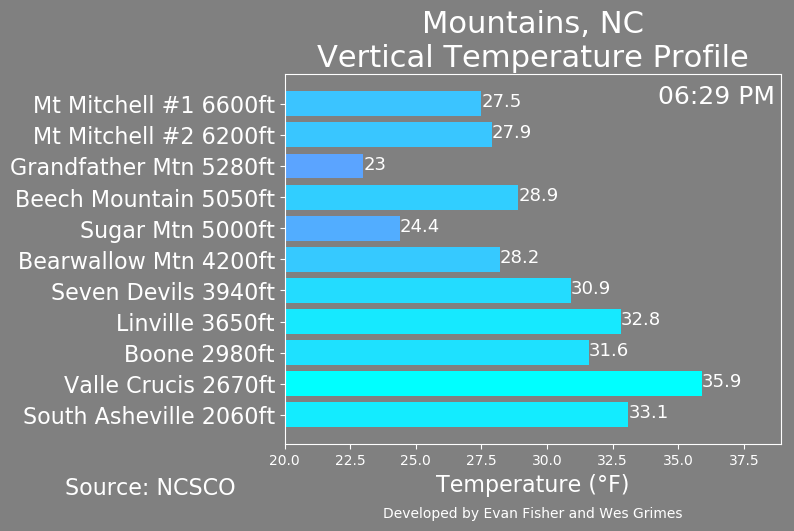
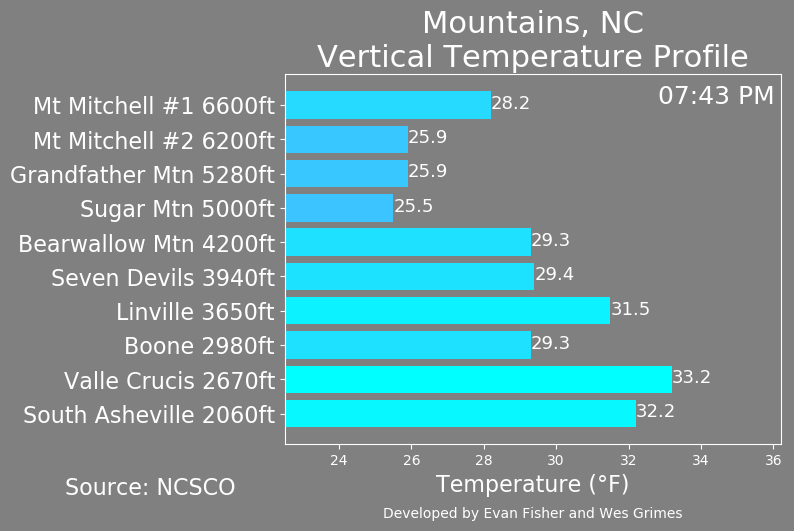
New plots, html overhaul

diff --git a/output/about.html b/output/about.html
@@ -22,6 +22,14 @@ body {margin:0}
 	font-size:250%;
 	margin-top:0%;
 }
+#p2 {
+	text-align:center;
+	font-family:Candara;
+	color:white;
+	font-size:150%;
+	padding-left:5%;
+	padding-right:5%;
+}
 #p1 {
 	text-align:center;
 	font-family:Candara;
@@ -34,6 +42,12 @@ body {margin:0}
 	text-align: center;
 	margin: 0 auto;
 	background-color:rgba(255,255,255,0.7);
+}
+#divcenter2 {
+	width:67%;
+	text-align: center;
+	margin: 0 auto;
+	background-color:rgba(101,101,101,0.6);
 }
 #header_image {
 	background-image: url('header_image.jpg');
@@ -89,24 +103,23 @@ li a:hover:not(.active) {
 </script>
 </head>
 <body style="background-color:grey;height:100%">
-	<div style="background-image:url(headerimage.jpg);background-repeat: no-repeat;background-size: cover;height:350%;margin-bottom: 0px;margin-top:0px;">
+	<div style="background-image:url(headerimage.jpg);background-repeat: no-repeat;background-size: cover;height:250%;margin-bottom: 0px;margin-top:0px;">
 	<p id="header">Appalachian Weather</p>
 	<ul>
-  		<li><a class="active" href="index.html">Temperature</a></li>
+  		<li><a href="index.html">Temperature</a></li>
   		<li><a href="wind.html">Wind</a></li>
-  		<li><a href="about.html">About</a></li>
+  		<li><a class="active" href="about.html">About</a></li>
 	</ul>
-	<p id="header3">Temperature Plots</p>
-	<div>
-		<img src="wncbarplot.png"/>
-	</div>
-	<br /><br /><br />
-	<div>
-		<img src="piedmontbarplot.png"/>
-	</div>
-	<br /><br /><br />
-	<div>
-		<img src="vabarplot.png"/>
+	<p id="header3">About Appalachian Weather</p>
+	<div id="divcenter2">
+		<br />
+		<p id="p2">If you encounter product issues, or have ideas for new plots, we want to hear about it!</p>
+		<p id="p2">Products on <a style="color:white" href="https://www.appalachianwx.com/">AppalachianWx.com</a> are unique to the southern and central Appalachians. More products will be added with time, but if you have a special request please contact us using the information below.</p>
+		<br />
+		<p id="p2">Twitter (preferred): <a style="color:white" href="https://twitter.com/EFisherWX">@EFisher828</a> & <a style="color:white" href="https://twitter.com/wesgrimes">@wesgrimes</a></p>
+		<br />
+		<p id="p2">Email: evan.w.fisher@gmail.com</p>
+		<br />
 	</div>
 	</div>
 </body>

diff --git a/output/wind.html b/output/wind.html
@@ -89,24 +89,16 @@ li a:hover:not(.active) {
 </script>
 </head>
 <body style="background-color:grey;height:100%">
-	<div style="background-image:url(headerimage.jpg);background-repeat: no-repeat;background-size: cover;height:350%;margin-bottom: 0px;margin-top:0px;">
+	<div style="background-image:url(headerimage.jpg);background-repeat: no-repeat;background-size: cover;height:250%;margin-bottom: 0px;margin-top:0px;">
 	<p id="header">Appalachian Weather</p>
 	<ul>
-  		<li><a class="active" href="index.html">Temperature</a></li>
-  		<li><a href="wind.html">Wind</a></li>
+  		<li><a href="index.html">Temperature</a></li>
+  		<li><a class="active" href="wind.html">Wind</a></li>
   		<li><a href="about.html">About</a></li>
 	</ul>
-	<p id="header3">Temperature Plots</p>
+	<p id="header3">Wind Plots</p>
 	<div>
-		<img src="wncbarplot.png"/>
-	</div>
-	<br /><br /><br />
-	<div>
-		<img src="piedmontbarplot.png"/>
-	</div>
-	<br /><br /><br />
-	<div>
-		<img src="vabarplot.png"/>
+		<img src="barbplot.png" />
 	</div>
 	</div>
 </body>

diff --git a/temp_plot.py b/temp_plot.py
@@ -12,7 +12,7 @@ from datetime import datetime
 
 def wncbar():
 
-    names = ('South Asheville 2060ft', 'Valle Crucis 2670ft', 'Boone 2980ft', 'Linville 3650ft', 'Seven Devils 3940ft', 'Bearwallow Mtn 4200ft', 'Sugar Mtn 5000ft','Beech Mountain 5050ft','Grandfather Mtn 5280ft','Mt Mitchell #2 6200ft','Mt Mitchell #1 6600ft')
+    names = ('South Asheville 2060ft', 'Valle Crucis 2670ft', 'Boone 2980ft', 'Linville 3650ft', 'Seven Devils 3940ft', 'Bearwallow Mtn 4200ft', 'Sugar Mtn 5000ft','Grandfather Mtn 5280ft','Mt Mitchell #2 6200ft','Mt Mitchell #1 6600ft')
     
     barnames = []
     Temperature = []
@@ -187,15 +187,15 @@ def wncbar():
         i = i + 1
 
         #Beech Mountain 5300'
-        Area_1 = Map.split('<area')
-        Area_2 = str(Area_1[1])
-        Temp_1 = Area_2.split('Temp:&lt;/td&gt;&lt;td&gt;')
-        Temp_2 = str(Temp_1[1])
-        Temp_3 = Temp_2.split('°F')
-        Data = eval(Temp_3[0])
-        Temperature.append(Data)
-        barnames.append(names[i])
-        i = i + 1
+        #Area_1 = Map.split('<area')
+        #Area_2 = str(Area_1[1])
+        #Temp_1 = Area_2.split('Temp:&lt;/td&gt;&lt;td&gt;')
+        #Temp_2 = str(Temp_1[1])
+        #Temp_3 = Temp_2.split('°F')
+        #Data = eval(Temp_3[0])
+        #Temperature.append(Data)
+        #barnames.append(names[i])
+        #i = i + 1
 
     except:
         print("Sugar or Beech Missing")
@@ -381,6 +381,7 @@ def windbarb():
             plt.ylim(-0.8,0.8)
             plt.text(0,-0.6,Wind_Sum,ha='center',size=15,color='white')
             plt.text(0,-0.75,"Valid: " + Time_7,ha='center',size=15,color='white')
+            plt.text(0,-0.85,"Source: NCSCO",ha='center',size=12,color='white')
             plt.text(0,0.70,'Current Winds on Grandfather Mountain',color='white',size=19,weight='bold',ha='center')
         
             plt.savefig("output/barbplot.png",bbox_inches='tight', facecolor=fig.get_facecolor())
@@ -428,6 +429,7 @@ def windbarb():
             plt.ylim(-0.8,0.8)
             plt.text(0,-0.6,Wind_Sum,ha='center',size=15,color='white')
             plt.text(0,-0.75,"Valid: " + Time_7,ha='center',size=15,color='white')
+            plt.text(0,-0.87,"Source: NCSCO",ha='center',size=12,color='white')
             plt.text(0,0.70,'Current Winds on Grandfather Mountain',color='white',size=19,weight='bold',ha='center')
         
             plt.savefig("output/barbplot.png",bbox_inches='tight', facecolor=fig.get_facecolor())
